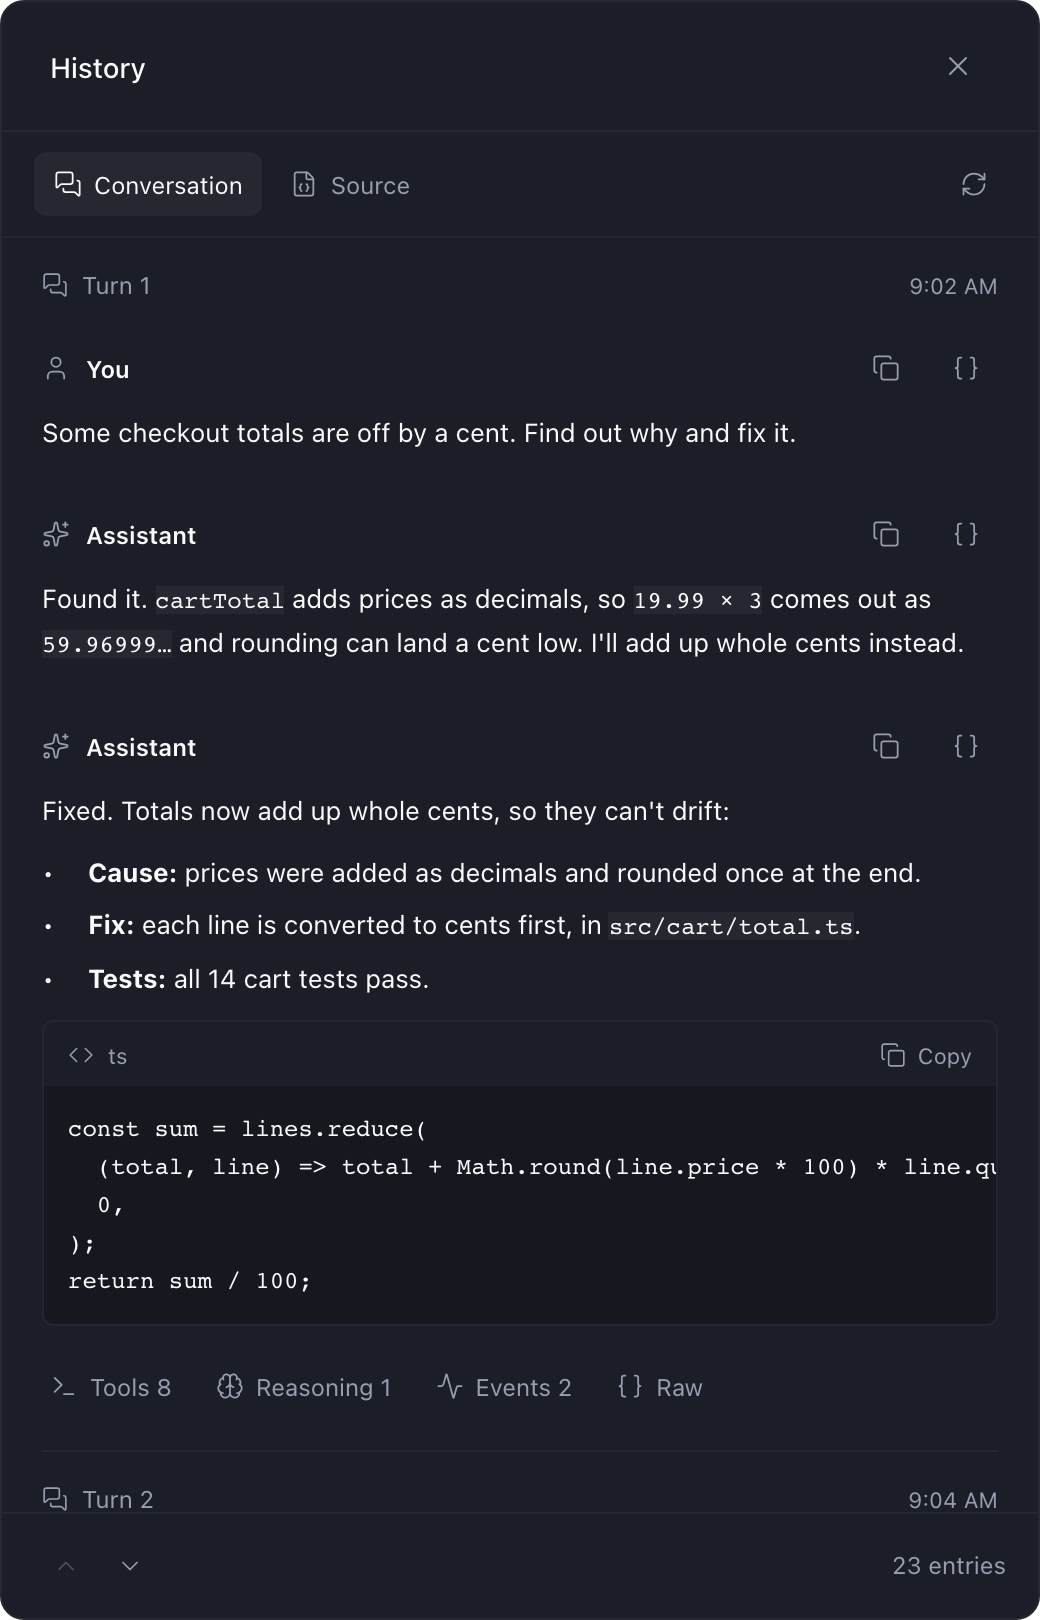
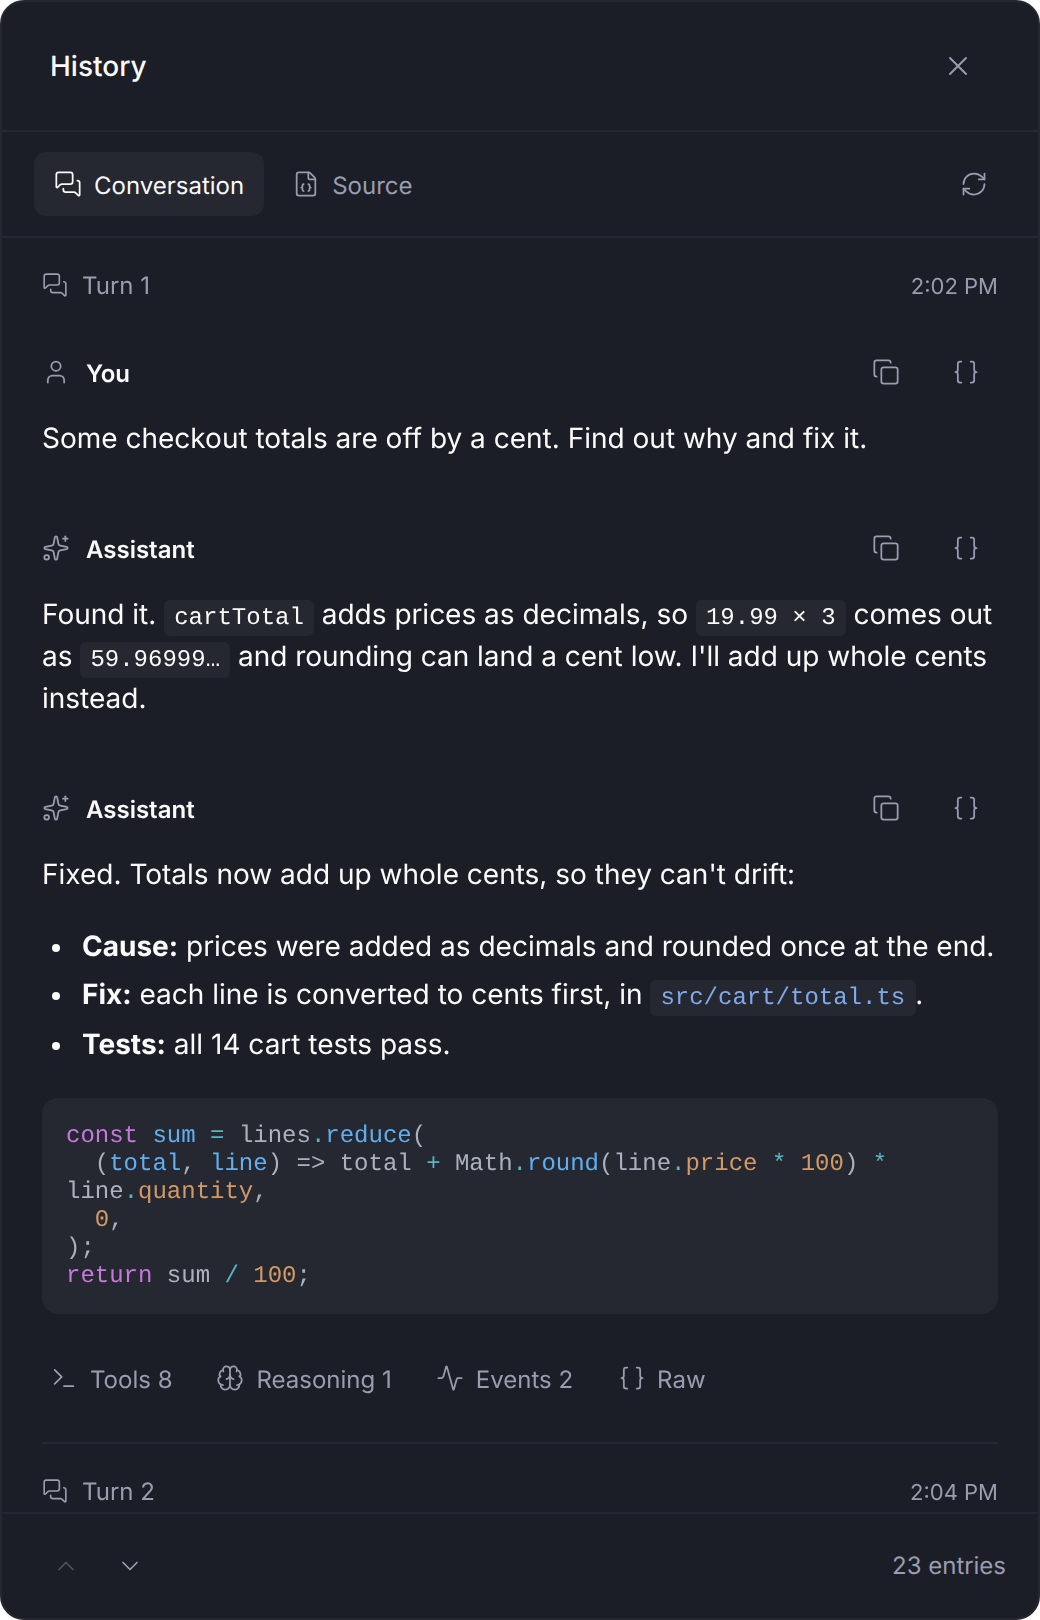
docs(history): describe Paseo's Markdown and add the 1.2.0 changelog; bump to 1.2.0
The README and store overview said messages used History's own renderer,
showed images as labeled links and copied non-web links. They now say
messages work the way they do in Paseo's chat. The Conversation screenshot
is retaken with the new rendering.

diff --git a/history/README.md b/history/README.md
@@ -10,7 +10,7 @@ The default **Conversation** view groups saved records into turns and displays u
 
 <img src="images/2-tags.png" alt="A turn's Tools tag open, listing each tool call and its result" width="400"> <img src="images/3-source.png" alt="The Source view, showing the log's file path and its JSONL records" width="400">
 
-Messages render Markdown, including headings, emphasis, lists, links, and tables. Code blocks scroll horizontally and have a **Copy code** action. **Copy message** keeps the original Markdown. Internal citation metadata is hidden in the readable view and preserved in Raw; HTML stays plain text. Web links open normally, while local file links copy their destination. Images appear as labeled links rather than loading remote files.
+Messages use Paseo's own Markdown, so they look the way they do in the chat: headings, lists, tables, links, highlighted code and diagrams. Links and images work the same way they do in the chat. **Copy message** keeps the original Markdown. Codex's memory citations are hidden here and kept in Raw and Source.
 
 Recognized task notifications show their status, summary, and Markdown result immediately, with token/tool/duration statistics when available. **Details** reveals task IDs, output paths, and notes; **Copy task result** copies just the result. Original notifications remain in Raw. Unknown or incomplete wrappers stay as ordinary message text.
 
@@ -33,6 +33,12 @@ paseo plugin add npm:@stevecastaneda/paseo-history
 Or from Paseo's plugin registry: `paseo plugin add stevecastaneda/history`.
 
 ## Changelog
+
+### 1.2.0
+
+- [Improved] **Messages look the way they do in Paseo's chat.** History now draws messages and task results with Paseo's own Markdown, so code is highlighted and diagrams draw. Codex's memory citations stay hidden. Code blocks no longer name their language. HTML in a message is drawn instead of shown as text. Images load the way they do in the chat, and a link that isn't a web address no longer copies its destination.
+- [Fixed] **The turn arrows work at the end of a chat.** The last turn is often too short to reach the top of the window. At the bottom of a chat, Previous turn stayed off and Next turn stayed on. Now the last turn counts as the current one there.
+- [Fixed] **Screen readers on the web hear which buttons are on.** In Paseo's web and desktop apps, screen readers now hear whether Conversation, Source, a turn's tags and Raw are on, and whether a record is open.
 
 ### 1.1.0
 

diff --git a/history/OVERVIEW.md b/history/OVERVIEW.md
@@ -12,4 +12,4 @@ The plugin reads these logs on the computer running the Paseo daemon and never c
 
 Custom providers that extend Codex, Claude Code or OpenCode in `~/.paseo/config.json` work too. When a provider sets `CODEX_HOME` or `CLAUDE_CONFIG_DIR` in its `env`, the plugin reads that folder, so each Claude Code profile shows its own sessions.
 
-The plugin makes no network requests of its own. Images in messages show as labeled links instead of loading. Chats from other providers still get the pill, but the window only says their history isn't supported yet.
+The plugin makes no network requests of its own. Messages use Paseo's Markdown, so links and images in them work the same way they do in the chat. Chats from other providers still get the pill, but the window only says their history isn't supported yet.
